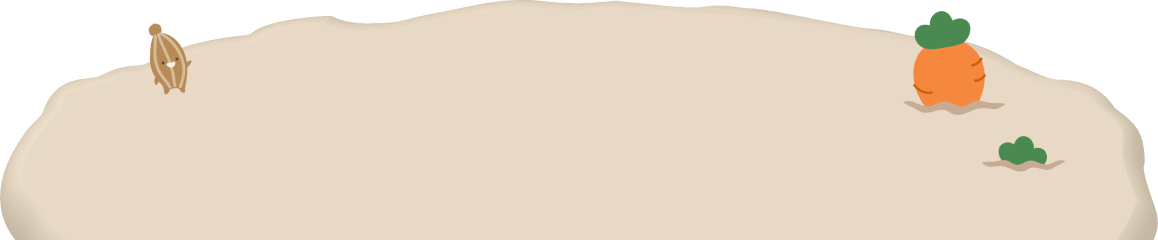
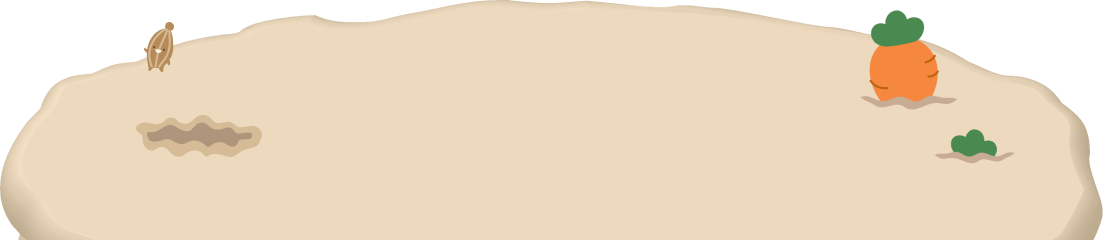
style: 웹페이지 레이아웃 수정

diff --git a/src/layout/Layout.jsx b/src/layout/Layout.jsx
@@ -56,7 +56,7 @@ const Layout = ({ children }) => {
     //   )}
     // </LayoutBox>
 
-    <LayoutBox>
+    <LayoutBox url={IMAGES.background}>
       <StLogoImg>
         <img src={IMAGES.webLogo} />
       </StLogoImg>
@@ -75,6 +75,17 @@ const Layout = ({ children }) => {
 };
 
 export default Layout;
+
+const LayoutBox = styled.div`
+  width: 100%;
+  display: flex;
+  margin: 0 auto;
+  justify-content: center;
+  /* background: #f9f3ea; */
+  background-image: url(${(props) => props.url});
+  background-repeat: no-repeat;
+  background-size: cover;
+`;
 
 const StLogoImg = styled.div`
   position: fixed;
@@ -104,40 +115,24 @@ const StMadeby = styled.div`
     display: none;
   }
 `;
-const StMadeby2 = styled.div`
-  position: fixed;
-  top: 7.8125vw;
-  right: 5%;
-  img {
-    width: 15vw;
-  }
-`;
 
 const StRabbit = styled.div`
   position: fixed;
   bottom: 0;
   left: 0;
   img {
-    width: 35.4375vw;
+    width: 30.4375vw;
   }
   @media screen and (max-width: 625px) {
     display: none;
   }
 `;
 
-const LayoutBox = styled.div`
-  width: 100%;
-  display: flex;
-  margin: 0 auto;
-  justify-content: center;
-  background: #f9f3ea;
-`;
-
 const StSum = styled.div`
   width: 1158px;
   height: 240px;
   position: absolute;
-  margin-left: 40%;
+  margin-left: 20%;
   bottom: 0;
   background-image: url(${(props) => props.url});
   background-repeat: no-repeat;
@@ -167,7 +162,7 @@ const StSum = styled.div`
 const Box = styled.div`
   //핸드폰 화면에 맞춤 처리
   display: flex;
-  margin-left: 40%;
+  margin-left: 20%;
   justify-content: center;
   box-shadow: 0 5px 18px -7px rgba(0, 0, 0, 0.4);
   z-index: 1;
